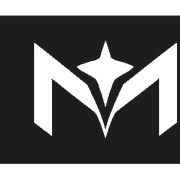
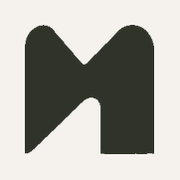
feat: swap to rounded M brand assets from new board

diff --git a/app/page.tsx b/app/page.tsx
@@ -166,7 +166,7 @@ export default function Home() {
           <div>
             <Image
               src="/brand/rapm-wordmark-dark.svg"
-              alt="RAPM - Rivoldy Adrian Prawira Makatita"
+              alt="RAPM monogram"
               width={160}
               height={40}
               className="h-8 w-auto"

diff --git a/DESIGN.md b/DESIGN.md
@@ -95,16 +95,16 @@ Remaining slots stay labeled until real data lands:
 
 ## Logo assets (`public/brand/`)
 
-Source: owner-supplied RAPM concept board (`design-system/` origin note in
-`RAPM_Logo_Assets/README.txt`: AI-generated concepts, not production vectors).
-Traced to clean binary SVG paths with vtracer plus PNG/ICO favicon exports.
+Source: owner-supplied board `Minimal M Logo Branding Board` (rounded M
+monogram plus sparkle, RAPM wordmark). Traced to clean binary SVG paths with
+vtracer plus PNG/ICO favicon exports.
 
 | File | Use | Reason |
 | --- | --- | --- |
-| `rapm-mark.svg` | Nav brand mark, favicon source | Standalone M monogram, `currentColor` so it follows context |
-| `rapm-wordmark-dark.svg` | Footer lockup on light | Full RAPM letters plus full name, traced from board |
-| `rapm-wordmark-light.svg` | Reserved for dark surfaces | White version, unused while page is all-light |
-| `favicon.ico`, `icon-*.png`, `apple-touch-icon.png` | Browser chrome | Downscaled from the mark mask |
+| `rapm-mark.svg` | Nav brand mark, favicon source | Rounded M plus sparkle, `currentColor` so it follows context |
+| `rapm-wordmark-dark.svg` | Footer lockup on light | RAPM letters plus sparkle, traced from board |
+| `rapm-wordmark-light.svg` | Reserved for dark surfaces | Same paths (`currentColor` adapts), unused while page is all-light |
+| `favicon.ico`, `icon-*.png`, `apple-touch-icon.png` | Browser chrome | M without sparkle on a cream rounded tile: responsive-logo simplification, sparkle is illegible under 32px |
 
 R-04 note: the four-point star is part of the owner's own monogram
 (identity, explicit instruction), not a generic feature icon. Keep it only
